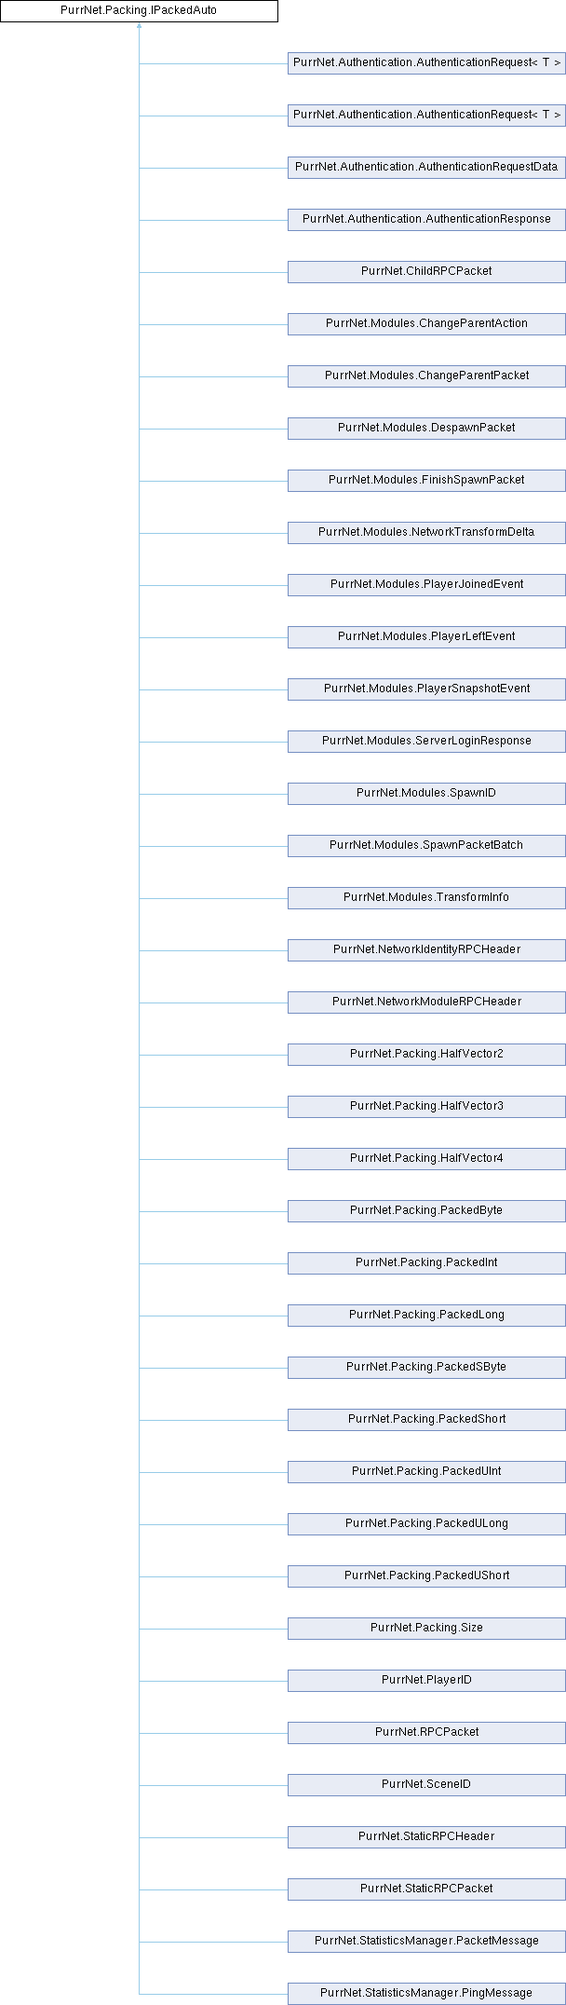
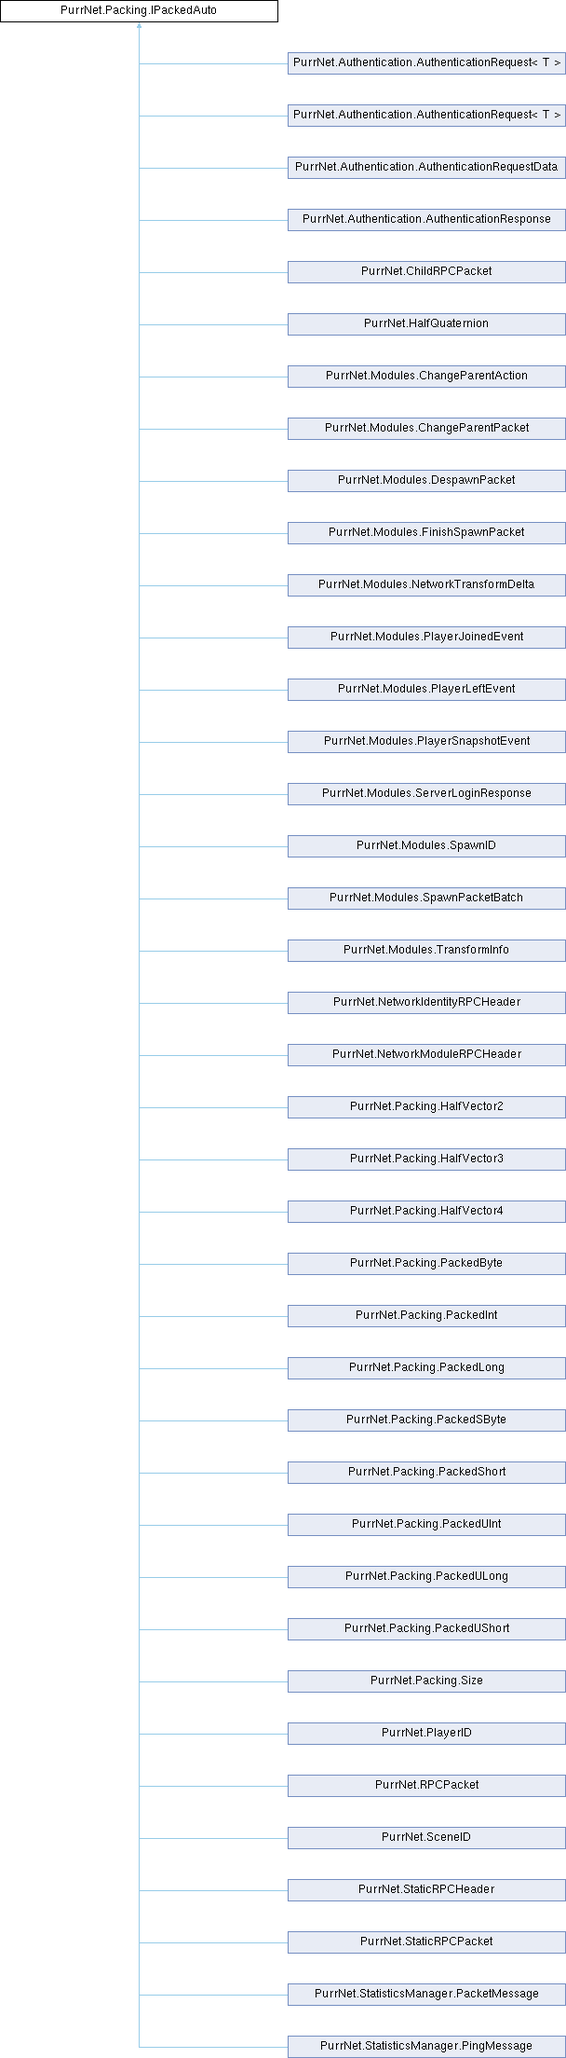
deploy: 9bf5a2cdf919eabc8fd64e0ef0906b92d262b19e

Changed region(s): [[0.5, 0.0311, 1.0, 0.9963]]

diff --git a/dev/hierarchy.html b/dev/hierarchy.html
@@ -280,39 +280,40 @@ $(document).ready(function(){initNavTree('hierarchy.html',''); initResizable(); 
 <tr id="row_68_2_" class="odd" style="display:none;"><td class="entry"><span style="width:32px;display:inline-block;">&#160;</span><span class="icona"><span class="icon">C</span></span><a class="el" href="structPurrNet_1_1Authentication_1_1AuthenticationRequestData.html" target="_self">PurrNet.Authentication.AuthenticationRequestData</a></td><td class="desc"></td></tr>
 <tr id="row_68_3_" class="odd" style="display:none;"><td class="entry"><span style="width:32px;display:inline-block;">&#160;</span><span class="icona"><span class="icon">C</span></span><a class="el" href="structPurrNet_1_1Authentication_1_1AuthenticationResponse.html" target="_self">PurrNet.Authentication.AuthenticationResponse</a></td><td class="desc"></td></tr>
 <tr id="row_68_4_" class="odd" style="display:none;"><td class="entry"><span style="width:32px;display:inline-block;">&#160;</span><span class="icona"><span class="icon">C</span></span><a class="el" href="structPurrNet_1_1ChildRPCPacket.html" target="_self">PurrNet.ChildRPCPacket</a></td><td class="desc"></td></tr>
-<tr id="row_68_5_" class="odd" style="display:none;"><td class="entry"><span style="width:32px;display:inline-block;">&#160;</span><span class="icona"><span class="icon">C</span></span><a class="el" href="structPurrNet_1_1Modules_1_1ChangeParentAction.html" target="_self">PurrNet.Modules.ChangeParentAction</a></td><td class="desc"></td></tr>
-<tr id="row_68_6_" class="odd" style="display:none;"><td class="entry"><span style="width:32px;display:inline-block;">&#160;</span><span class="icona"><span class="icon">C</span></span><a class="el" href="structPurrNet_1_1Modules_1_1ChangeParentPacket.html" target="_self">PurrNet.Modules.ChangeParentPacket</a></td><td class="desc"></td></tr>
-<tr id="row_68_7_" class="odd" style="display:none;"><td class="entry"><span style="width:32px;display:inline-block;">&#160;</span><span class="icona"><span class="icon">C</span></span><a class="el" href="structPurrNet_1_1Modules_1_1DespawnPacket.html" target="_self">PurrNet.Modules.DespawnPacket</a></td><td class="desc"></td></tr>
-<tr id="row_68_8_" class="odd" style="display:none;"><td class="entry"><span style="width:32px;display:inline-block;">&#160;</span><span class="icona"><span class="icon">C</span></span><a class="el" href="structPurrNet_1_1Modules_1_1FinishSpawnPacket.html" target="_self">PurrNet.Modules.FinishSpawnPacket</a></td><td class="desc"></td></tr>
-<tr id="row_68_9_" class="odd" style="display:none;"><td class="entry"><span style="width:32px;display:inline-block;">&#160;</span><span class="icona"><span class="icon">C</span></span><a class="el" href="structPurrNet_1_1Modules_1_1NetworkTransformDelta.html" target="_self">PurrNet.Modules.NetworkTransformDelta</a></td><td class="desc"></td></tr>
-<tr id="row_68_10_" class="odd" style="display:none;"><td class="entry"><span style="width:32px;display:inline-block;">&#160;</span><span class="icona"><span class="icon">C</span></span><a class="el" href="structPurrNet_1_1Modules_1_1PlayerJoinedEvent.html" target="_self">PurrNet.Modules.PlayerJoinedEvent</a></td><td class="desc"></td></tr>
-<tr id="row_68_11_" class="odd" style="display:none;"><td class="entry"><span style="width:32px;display:inline-block;">&#160;</span><span class="icona"><span class="icon">C</span></span><a class="el" href="structPurrNet_1_1Modules_1_1PlayerLeftEvent.html" target="_self">PurrNet.Modules.PlayerLeftEvent</a></td><td class="desc"></td></tr>
-<tr id="row_68_12_" class="odd" style="display:none;"><td class="entry"><span style="width:32px;display:inline-block;">&#160;</span><span class="icona"><span class="icon">C</span></span><a class="el" href="structPurrNet_1_1Modules_1_1PlayerSnapshotEvent.html" target="_self">PurrNet.Modules.PlayerSnapshotEvent</a></td><td class="desc"></td></tr>
-<tr id="row_68_13_" class="odd" style="display:none;"><td class="entry"><span style="width:32px;display:inline-block;">&#160;</span><span class="icona"><span class="icon">C</span></span><a class="el" href="structPurrNet_1_1Modules_1_1ServerLoginResponse.html" target="_self">PurrNet.Modules.ServerLoginResponse</a></td><td class="desc"></td></tr>
-<tr id="row_68_14_" class="odd" style="display:none;"><td class="entry"><span style="width:32px;display:inline-block;">&#160;</span><span class="icona"><span class="icon">C</span></span><a class="el" href="structPurrNet_1_1Modules_1_1SpawnID.html" target="_self">PurrNet.Modules.SpawnID</a></td><td class="desc"></td></tr>
-<tr id="row_68_15_" class="odd" style="display:none;"><td class="entry"><span style="width:32px;display:inline-block;">&#160;</span><span class="icona"><span class="icon">C</span></span><a class="el" href="structPurrNet_1_1Modules_1_1SpawnPacketBatch.html" target="_self">PurrNet.Modules.SpawnPacketBatch</a></td><td class="desc"></td></tr>
-<tr id="row_68_16_" class="odd" style="display:none;"><td class="entry"><span style="width:32px;display:inline-block;">&#160;</span><span class="icona"><span class="icon">C</span></span><a class="el" href="structPurrNet_1_1Modules_1_1TransformInfo.html" target="_self">PurrNet.Modules.TransformInfo</a></td><td class="desc"></td></tr>
-<tr id="row_68_17_" class="odd" style="display:none;"><td class="entry"><span style="width:32px;display:inline-block;">&#160;</span><span class="icona"><span class="icon">C</span></span><a class="el" href="structPurrNet_1_1NetworkIdentityRPCHeader.html" target="_self">PurrNet.NetworkIdentityRPCHeader</a></td><td class="desc"></td></tr>
-<tr id="row_68_18_" class="odd" style="display:none;"><td class="entry"><span style="width:32px;display:inline-block;">&#160;</span><span class="icona"><span class="icon">C</span></span><a class="el" href="structPurrNet_1_1NetworkModuleRPCHeader.html" target="_self">PurrNet.NetworkModuleRPCHeader</a></td><td class="desc"></td></tr>
-<tr id="row_68_19_" class="odd" style="display:none;"><td class="entry"><span style="width:32px;display:inline-block;">&#160;</span><span class="icona"><span class="icon">C</span></span><a class="el" href="structPurrNet_1_1Packing_1_1HalfVector2.html" target="_self">PurrNet.Packing.HalfVector2</a></td><td class="desc"></td></tr>
-<tr id="row_68_20_" class="odd" style="display:none;"><td class="entry"><span style="width:32px;display:inline-block;">&#160;</span><span class="icona"><span class="icon">C</span></span><a class="el" href="structPurrNet_1_1Packing_1_1HalfVector3.html" target="_self">PurrNet.Packing.HalfVector3</a></td><td class="desc"></td></tr>
-<tr id="row_68_21_" class="odd" style="display:none;"><td class="entry"><span style="width:32px;display:inline-block;">&#160;</span><span class="icona"><span class="icon">C</span></span><a class="el" href="structPurrNet_1_1Packing_1_1HalfVector4.html" target="_self">PurrNet.Packing.HalfVector4</a></td><td class="desc"></td></tr>
-<tr id="row_68_22_" class="odd" style="display:none;"><td class="entry"><span style="width:32px;display:inline-block;">&#160;</span><span class="icona"><span class="icon">C</span></span><a class="el" href="structPurrNet_1_1Packing_1_1PackedByte.html" target="_self">PurrNet.Packing.PackedByte</a></td><td class="desc"></td></tr>
-<tr id="row_68_23_" class="odd" style="display:none;"><td class="entry"><span style="width:32px;display:inline-block;">&#160;</span><span class="icona"><span class="icon">C</span></span><a class="el" href="structPurrNet_1_1Packing_1_1PackedInt.html" target="_self">PurrNet.Packing.PackedInt</a></td><td class="desc"></td></tr>
-<tr id="row_68_24_" class="odd" style="display:none;"><td class="entry"><span style="width:32px;display:inline-block;">&#160;</span><span class="icona"><span class="icon">C</span></span><a class="el" href="structPurrNet_1_1Packing_1_1PackedLong.html" target="_self">PurrNet.Packing.PackedLong</a></td><td class="desc"></td></tr>
-<tr id="row_68_25_" class="odd" style="display:none;"><td class="entry"><span style="width:32px;display:inline-block;">&#160;</span><span class="icona"><span class="icon">C</span></span><a class="el" href="structPurrNet_1_1Packing_1_1PackedSByte.html" target="_self">PurrNet.Packing.PackedSByte</a></td><td class="desc"></td></tr>
-<tr id="row_68_26_" class="odd" style="display:none;"><td class="entry"><span style="width:32px;display:inline-block;">&#160;</span><span class="icona"><span class="icon">C</span></span><a class="el" href="structPurrNet_1_1Packing_1_1PackedShort.html" target="_self">PurrNet.Packing.PackedShort</a></td><td class="desc"></td></tr>
-<tr id="row_68_27_" class="odd" style="display:none;"><td class="entry"><span style="width:32px;display:inline-block;">&#160;</span><span class="icona"><span class="icon">C</span></span><a class="el" href="structPurrNet_1_1Packing_1_1PackedUInt.html" target="_self">PurrNet.Packing.PackedUInt</a></td><td class="desc"></td></tr>
-<tr id="row_68_28_" class="odd" style="display:none;"><td class="entry"><span style="width:32px;display:inline-block;">&#160;</span><span class="icona"><span class="icon">C</span></span><a class="el" href="structPurrNet_1_1Packing_1_1PackedULong.html" target="_self">PurrNet.Packing.PackedULong</a></td><td class="desc"></td></tr>
-<tr id="row_68_29_" class="odd" style="display:none;"><td class="entry"><span style="width:32px;display:inline-block;">&#160;</span><span class="icona"><span class="icon">C</span></span><a class="el" href="structPurrNet_1_1Packing_1_1PackedUShort.html" target="_self">PurrNet.Packing.PackedUShort</a></td><td class="desc"></td></tr>
-<tr id="row_68_30_" class="odd" style="display:none;"><td class="entry"><span style="width:32px;display:inline-block;">&#160;</span><span class="icona"><span class="icon">C</span></span><a class="el" href="structPurrNet_1_1Packing_1_1Size.html" target="_self">PurrNet.Packing.Size</a></td><td class="desc"></td></tr>
-<tr id="row_68_31_" class="odd" style="display:none;"><td class="entry"><span style="width:32px;display:inline-block;">&#160;</span><span class="icona"><span class="icon">C</span></span><a class="el" href="structPurrNet_1_1PlayerID.html" target="_self">PurrNet.PlayerID</a></td><td class="desc"></td></tr>
-<tr id="row_68_32_" class="odd" style="display:none;"><td class="entry"><span style="width:32px;display:inline-block;">&#160;</span><span class="icona"><span class="icon">C</span></span><a class="el" href="structPurrNet_1_1RPCPacket.html" target="_self">PurrNet.RPCPacket</a></td><td class="desc"></td></tr>
-<tr id="row_68_33_" class="odd" style="display:none;"><td class="entry"><span style="width:32px;display:inline-block;">&#160;</span><span class="icona"><span class="icon">C</span></span><a class="el" href="structPurrNet_1_1SceneID.html" target="_self">PurrNet.SceneID</a></td><td class="desc"></td></tr>
-<tr id="row_68_34_" class="odd" style="display:none;"><td class="entry"><span style="width:32px;display:inline-block;">&#160;</span><span class="icona"><span class="icon">C</span></span><a class="el" href="structPurrNet_1_1StaticRPCHeader.html" target="_self">PurrNet.StaticRPCHeader</a></td><td class="desc"></td></tr>
-<tr id="row_68_35_" class="odd" style="display:none;"><td class="entry"><span style="width:32px;display:inline-block;">&#160;</span><span class="icona"><span class="icon">C</span></span><a class="el" href="structPurrNet_1_1StaticRPCPacket.html" target="_self">PurrNet.StaticRPCPacket</a></td><td class="desc"></td></tr>
-<tr id="row_68_36_" class="odd" style="display:none;"><td class="entry"><span style="width:32px;display:inline-block;">&#160;</span><span class="icona"><span class="icon">C</span></span><a class="el" href="structPurrNet_1_1StatisticsManager_1_1PacketMessage.html" target="_self">PurrNet.StatisticsManager.PacketMessage</a></td><td class="desc"></td></tr>
-<tr id="row_68_37_" class="odd" style="display:none;"><td class="entry"><span style="width:32px;display:inline-block;">&#160;</span><span class="icona"><span class="icon">C</span></span><a class="el" href="structPurrNet_1_1StatisticsManager_1_1PingMessage.html" target="_self">PurrNet.StatisticsManager.PingMessage</a></td><td class="desc"></td></tr>
+<tr id="row_68_5_" class="odd" style="display:none;"><td class="entry"><span style="width:32px;display:inline-block;">&#160;</span><span class="icona"><span class="icon">C</span></span><a class="el" href="structPurrNet_1_1HalfQuaternion.html" target="_self">PurrNet.HalfQuaternion</a></td><td class="desc"></td></tr>
+<tr id="row_68_6_" class="odd" style="display:none;"><td class="entry"><span style="width:32px;display:inline-block;">&#160;</span><span class="icona"><span class="icon">C</span></span><a class="el" href="structPurrNet_1_1Modules_1_1ChangeParentAction.html" target="_self">PurrNet.Modules.ChangeParentAction</a></td><td class="desc"></td></tr>
+<tr id="row_68_7_" class="odd" style="display:none;"><td class="entry"><span style="width:32px;display:inline-block;">&#160;</span><span class="icona"><span class="icon">C</span></span><a class="el" href="structPurrNet_1_1Modules_1_1ChangeParentPacket.html" target="_self">PurrNet.Modules.ChangeParentPacket</a></td><td class="desc"></td></tr>
+<tr id="row_68_8_" class="odd" style="display:none;"><td class="entry"><span style="width:32px;display:inline-block;">&#160;</span><span class="icona"><span class="icon">C</span></span><a class="el" href="structPurrNet_1_1Modules_1_1DespawnPacket.html" target="_self">PurrNet.Modules.DespawnPacket</a></td><td class="desc"></td></tr>
+<tr id="row_68_9_" class="odd" style="display:none;"><td class="entry"><span style="width:32px;display:inline-block;">&#160;</span><span class="icona"><span class="icon">C</span></span><a class="el" href="structPurrNet_1_1Modules_1_1FinishSpawnPacket.html" target="_self">PurrNet.Modules.FinishSpawnPacket</a></td><td class="desc"></td></tr>
+<tr id="row_68_10_" class="odd" style="display:none;"><td class="entry"><span style="width:32px;display:inline-block;">&#160;</span><span class="icona"><span class="icon">C</span></span><a class="el" href="structPurrNet_1_1Modules_1_1NetworkTransformDelta.html" target="_self">PurrNet.Modules.NetworkTransformDelta</a></td><td class="desc"></td></tr>
+<tr id="row_68_11_" class="odd" style="display:none;"><td class="entry"><span style="width:32px;display:inline-block;">&#160;</span><span class="icona"><span class="icon">C</span></span><a class="el" href="structPurrNet_1_1Modules_1_1PlayerJoinedEvent.html" target="_self">PurrNet.Modules.PlayerJoinedEvent</a></td><td class="desc"></td></tr>
+<tr id="row_68_12_" class="odd" style="display:none;"><td class="entry"><span style="width:32px;display:inline-block;">&#160;</span><span class="icona"><span class="icon">C</span></span><a class="el" href="structPurrNet_1_1Modules_1_1PlayerLeftEvent.html" target="_self">PurrNet.Modules.PlayerLeftEvent</a></td><td class="desc"></td></tr>
+<tr id="row_68_13_" class="odd" style="display:none;"><td class="entry"><span style="width:32px;display:inline-block;">&#160;</span><span class="icona"><span class="icon">C</span></span><a class="el" href="structPurrNet_1_1Modules_1_1PlayerSnapshotEvent.html" target="_self">PurrNet.Modules.PlayerSnapshotEvent</a></td><td class="desc"></td></tr>
+<tr id="row_68_14_" class="odd" style="display:none;"><td class="entry"><span style="width:32px;display:inline-block;">&#160;</span><span class="icona"><span class="icon">C</span></span><a class="el" href="structPurrNet_1_1Modules_1_1ServerLoginResponse.html" target="_self">PurrNet.Modules.ServerLoginResponse</a></td><td class="desc"></td></tr>
+<tr id="row_68_15_" class="odd" style="display:none;"><td class="entry"><span style="width:32px;display:inline-block;">&#160;</span><span class="icona"><span class="icon">C</span></span><a class="el" href="structPurrNet_1_1Modules_1_1SpawnID.html" target="_self">PurrNet.Modules.SpawnID</a></td><td class="desc"></td></tr>
+<tr id="row_68_16_" class="odd" style="display:none;"><td class="entry"><span style="width:32px;display:inline-block;">&#160;</span><span class="icona"><span class="icon">C</span></span><a class="el" href="structPurrNet_1_1Modules_1_1SpawnPacketBatch.html" target="_self">PurrNet.Modules.SpawnPacketBatch</a></td><td class="desc"></td></tr>
+<tr id="row_68_17_" class="odd" style="display:none;"><td class="entry"><span style="width:32px;display:inline-block;">&#160;</span><span class="icona"><span class="icon">C</span></span><a class="el" href="structPurrNet_1_1Modules_1_1TransformInfo.html" target="_self">PurrNet.Modules.TransformInfo</a></td><td class="desc"></td></tr>
+<tr id="row_68_18_" class="odd" style="display:none;"><td class="entry"><span style="width:32px;display:inline-block;">&#160;</span><span class="icona"><span class="icon">C</span></span><a class="el" href="structPurrNet_1_1NetworkIdentityRPCHeader.html" target="_self">PurrNet.NetworkIdentityRPCHeader</a></td><td class="desc"></td></tr>
+<tr id="row_68_19_" class="odd" style="display:none;"><td class="entry"><span style="width:32px;display:inline-block;">&#160;</span><span class="icona"><span class="icon">C</span></span><a class="el" href="structPurrNet_1_1NetworkModuleRPCHeader.html" target="_self">PurrNet.NetworkModuleRPCHeader</a></td><td class="desc"></td></tr>
+<tr id="row_68_20_" class="odd" style="display:none;"><td class="entry"><span style="width:32px;display:inline-block;">&#160;</span><span class="icona"><span class="icon">C</span></span><a class="el" href="structPurrNet_1_1Packing_1_1HalfVector2.html" target="_self">PurrNet.Packing.HalfVector2</a></td><td class="desc"></td></tr>
+<tr id="row_68_21_" class="odd" style="display:none;"><td class="entry"><span style="width:32px;display:inline-block;">&#160;</span><span class="icona"><span class="icon">C</span></span><a class="el" href="structPurrNet_1_1Packing_1_1HalfVector3.html" target="_self">PurrNet.Packing.HalfVector3</a></td><td class="desc"></td></tr>
+<tr id="row_68_22_" class="odd" style="display:none;"><td class="entry"><span style="width:32px;display:inline-block;">&#160;</span><span class="icona"><span class="icon">C</span></span><a class="el" href="structPurrNet_1_1Packing_1_1HalfVector4.html" target="_self">PurrNet.Packing.HalfVector4</a></td><td class="desc"></td></tr>
+<tr id="row_68_23_" class="odd" style="display:none;"><td class="entry"><span style="width:32px;display:inline-block;">&#160;</span><span class="icona"><span class="icon">C</span></span><a class="el" href="structPurrNet_1_1Packing_1_1PackedByte.html" target="_self">PurrNet.Packing.PackedByte</a></td><td class="desc"></td></tr>
+<tr id="row_68_24_" class="odd" style="display:none;"><td class="entry"><span style="width:32px;display:inline-block;">&#160;</span><span class="icona"><span class="icon">C</span></span><a class="el" href="structPurrNet_1_1Packing_1_1PackedInt.html" target="_self">PurrNet.Packing.PackedInt</a></td><td class="desc"></td></tr>
+<tr id="row_68_25_" class="odd" style="display:none;"><td class="entry"><span style="width:32px;display:inline-block;">&#160;</span><span class="icona"><span class="icon">C</span></span><a class="el" href="structPurrNet_1_1Packing_1_1PackedLong.html" target="_self">PurrNet.Packing.PackedLong</a></td><td class="desc"></td></tr>
+<tr id="row_68_26_" class="odd" style="display:none;"><td class="entry"><span style="width:32px;display:inline-block;">&#160;</span><span class="icona"><span class="icon">C</span></span><a class="el" href="structPurrNet_1_1Packing_1_1PackedSByte.html" target="_self">PurrNet.Packing.PackedSByte</a></td><td class="desc"></td></tr>
+<tr id="row_68_27_" class="odd" style="display:none;"><td class="entry"><span style="width:32px;display:inline-block;">&#160;</span><span class="icona"><span class="icon">C</span></span><a class="el" href="structPurrNet_1_1Packing_1_1PackedShort.html" target="_self">PurrNet.Packing.PackedShort</a></td><td class="desc"></td></tr>
+<tr id="row_68_28_" class="odd" style="display:none;"><td class="entry"><span style="width:32px;display:inline-block;">&#160;</span><span class="icona"><span class="icon">C</span></span><a class="el" href="structPurrNet_1_1Packing_1_1PackedUInt.html" target="_self">PurrNet.Packing.PackedUInt</a></td><td class="desc"></td></tr>
+<tr id="row_68_29_" class="odd" style="display:none;"><td class="entry"><span style="width:32px;display:inline-block;">&#160;</span><span class="icona"><span class="icon">C</span></span><a class="el" href="structPurrNet_1_1Packing_1_1PackedULong.html" target="_self">PurrNet.Packing.PackedULong</a></td><td class="desc"></td></tr>
+<tr id="row_68_30_" class="odd" style="display:none;"><td class="entry"><span style="width:32px;display:inline-block;">&#160;</span><span class="icona"><span class="icon">C</span></span><a class="el" href="structPurrNet_1_1Packing_1_1PackedUShort.html" target="_self">PurrNet.Packing.PackedUShort</a></td><td class="desc"></td></tr>
+<tr id="row_68_31_" class="odd" style="display:none;"><td class="entry"><span style="width:32px;display:inline-block;">&#160;</span><span class="icona"><span class="icon">C</span></span><a class="el" href="structPurrNet_1_1Packing_1_1Size.html" target="_self">PurrNet.Packing.Size</a></td><td class="desc"></td></tr>
+<tr id="row_68_32_" class="odd" style="display:none;"><td class="entry"><span style="width:32px;display:inline-block;">&#160;</span><span class="icona"><span class="icon">C</span></span><a class="el" href="structPurrNet_1_1PlayerID.html" target="_self">PurrNet.PlayerID</a></td><td class="desc"></td></tr>
+<tr id="row_68_33_" class="odd" style="display:none;"><td class="entry"><span style="width:32px;display:inline-block;">&#160;</span><span class="icona"><span class="icon">C</span></span><a class="el" href="structPurrNet_1_1RPCPacket.html" target="_self">PurrNet.RPCPacket</a></td><td class="desc"></td></tr>
+<tr id="row_68_34_" class="odd" style="display:none;"><td class="entry"><span style="width:32px;display:inline-block;">&#160;</span><span class="icona"><span class="icon">C</span></span><a class="el" href="structPurrNet_1_1SceneID.html" target="_self">PurrNet.SceneID</a></td><td class="desc"></td></tr>
+<tr id="row_68_35_" class="odd" style="display:none;"><td class="entry"><span style="width:32px;display:inline-block;">&#160;</span><span class="icona"><span class="icon">C</span></span><a class="el" href="structPurrNet_1_1StaticRPCHeader.html" target="_self">PurrNet.StaticRPCHeader</a></td><td class="desc"></td></tr>
+<tr id="row_68_36_" class="odd" style="display:none;"><td class="entry"><span style="width:32px;display:inline-block;">&#160;</span><span class="icona"><span class="icon">C</span></span><a class="el" href="structPurrNet_1_1StaticRPCPacket.html" target="_self">PurrNet.StaticRPCPacket</a></td><td class="desc"></td></tr>
+<tr id="row_68_37_" class="odd" style="display:none;"><td class="entry"><span style="width:32px;display:inline-block;">&#160;</span><span class="icona"><span class="icon">C</span></span><a class="el" href="structPurrNet_1_1StatisticsManager_1_1PacketMessage.html" target="_self">PurrNet.StatisticsManager.PacketMessage</a></td><td class="desc"></td></tr>
+<tr id="row_68_38_" class="odd" style="display:none;"><td class="entry"><span style="width:32px;display:inline-block;">&#160;</span><span class="icona"><span class="icon">C</span></span><a class="el" href="structPurrNet_1_1StatisticsManager_1_1PingMessage.html" target="_self">PurrNet.StatisticsManager.PingMessage</a></td><td class="desc"></td></tr>
 <tr id="row_69_" class="odd"><td class="entry"><span style="width:16px;display:inline-block;">&#160;</span><span class="icona"><span class="icon">C</span></span><a class="el" href="interfacePurrNet_1_1Packing_1_1IPackedSimple.html" target="_self">PurrNet.Packing.IPackedSimple</a></td><td class="desc"></td></tr>
 <tr id="row_70_" class="even"><td class="entry"><span style="width:16px;display:inline-block;">&#160;</span><span class="icona"><span class="icon">C</span></span><a class="el" href="interfacePurrNet_1_1IPlayerAuthenticator.html" target="_self">PurrNet.IPlayerAuthenticator</a></td><td class="desc"></td></tr>
 <tr id="row_71_" class="odd"><td class="entry"><span style="width:0px;display:inline-block;">&#160;</span><span id="arr_71_" class="arrow" onclick="toggleFolder('71_')">&#9658;</span><span class="icona"><span class="icon">C</span></span><a class="el" href="interfacePurrNet_1_1IPlayerBroadcaster.html" target="_self">PurrNet.IPlayerBroadcaster</a></td><td class="desc"></td></tr>

diff --git a/dev/interfacePurrNet_1_1Packing_1_1IPackedAuto.html b/dev/interfacePurrNet_1_1Packing_1_1IPackedAuto.html
@@ -104,39 +104,40 @@ Inheritance diagram for PurrNet.Packing.IPackedAuto:</div>
 <area href="structPurrNet_1_1Authentication_1_1AuthenticationRequestData.html" alt="PurrNet.Authentication.AuthenticationRequestData" shape="rect" coords="309,168,608,192"/>
 <area href="structPurrNet_1_1Authentication_1_1AuthenticationResponse.html" alt="PurrNet.Authentication.AuthenticationResponse" shape="rect" coords="309,224,608,248"/>
 <area href="structPurrNet_1_1ChildRPCPacket.html" alt="PurrNet.ChildRPCPacket" shape="rect" coords="309,280,608,304"/>
-<area href="structPurrNet_1_1Modules_1_1ChangeParentAction.html" alt="PurrNet.Modules.ChangeParentAction" shape="rect" coords="309,336,608,360"/>
-<area href="structPurrNet_1_1Modules_1_1ChangeParentPacket.html" alt="PurrNet.Modules.ChangeParentPacket" shape="rect" coords="309,392,608,416"/>
-<area href="structPurrNet_1_1Modules_1_1DespawnPacket.html" alt="PurrNet.Modules.DespawnPacket" shape="rect" coords="309,448,608,472"/>
-<area href="structPurrNet_1_1Modules_1_1FinishSpawnPacket.html" alt="PurrNet.Modules.FinishSpawnPacket" shape="rect" coords="309,504,608,528"/>
-<area href="structPurrNet_1_1Modules_1_1NetworkTransformDelta.html" alt="PurrNet.Modules.NetworkTransformDelta" shape="rect" coords="309,560,608,584"/>
-<area href="structPurrNet_1_1Modules_1_1PlayerJoinedEvent.html" alt="PurrNet.Modules.PlayerJoinedEvent" shape="rect" coords="309,616,608,640"/>
-<area href="structPurrNet_1_1Modules_1_1PlayerLeftEvent.html" alt="PurrNet.Modules.PlayerLeftEvent" shape="rect" coords="309,672,608,696"/>
-<area href="structPurrNet_1_1Modules_1_1PlayerSnapshotEvent.html" alt="PurrNet.Modules.PlayerSnapshotEvent" shape="rect" coords="309,728,608,752"/>
-<area href="structPurrNet_1_1Modules_1_1ServerLoginResponse.html" alt="PurrNet.Modules.ServerLoginResponse" shape="rect" coords="309,784,608,808"/>
-<area href="structPurrNet_1_1Modules_1_1SpawnID.html" alt="PurrNet.Modules.SpawnID" shape="rect" coords="309,840,608,864"/>
-<area href="structPurrNet_1_1Modules_1_1SpawnPacketBatch.html" alt="PurrNet.Modules.SpawnPacketBatch" shape="rect" coords="309,896,608,920"/>
-<area href="structPurrNet_1_1Modules_1_1TransformInfo.html" alt="PurrNet.Modules.TransformInfo" shape="rect" coords="309,952,608,976"/>
-<area href="structPurrNet_1_1NetworkIdentityRPCHeader.html" alt="PurrNet.NetworkIdentityRPCHeader" shape="rect" coords="309,1008,608,1032"/>
-<area href="structPurrNet_1_1NetworkModuleRPCHeader.html" alt="PurrNet.NetworkModuleRPCHeader" shape="rect" coords="309,1064,608,1088"/>
-<area href="structPurrNet_1_1Packing_1_1HalfVector2.html" alt="PurrNet.Packing.HalfVector2" shape="rect" coords="309,1120,608,1144"/>
-<area href="structPurrNet_1_1Packing_1_1HalfVector3.html" alt="PurrNet.Packing.HalfVector3" shape="rect" coords="309,1176,608,1200"/>
-<area href="structPurrNet_1_1Packing_1_1HalfVector4.html" alt="PurrNet.Packing.HalfVector4" shape="rect" coords="309,1232,608,1256"/>
-<area href="structPurrNet_1_1Packing_1_1PackedByte.html" alt="PurrNet.Packing.PackedByte" shape="rect" coords="309,1288,608,1312"/>
-<area href="structPurrNet_1_1Packing_1_1PackedInt.html" alt="PurrNet.Packing.PackedInt" shape="rect" coords="309,1344,608,1368"/>
-<area href="structPurrNet_1_1Packing_1_1PackedLong.html" alt="PurrNet.Packing.PackedLong" shape="rect" coords="309,1400,608,1424"/>
-<area href="structPurrNet_1_1Packing_1_1PackedSByte.html" alt="PurrNet.Packing.PackedSByte" shape="rect" coords="309,1456,608,1480"/>
-<area href="structPurrNet_1_1Packing_1_1PackedShort.html" alt="PurrNet.Packing.PackedShort" shape="rect" coords="309,1512,608,1536"/>
-<area href="structPurrNet_1_1Packing_1_1PackedUInt.html" alt="PurrNet.Packing.PackedUInt" shape="rect" coords="309,1568,608,1592"/>
-<area href="structPurrNet_1_1Packing_1_1PackedULong.html" alt="PurrNet.Packing.PackedULong" shape="rect" coords="309,1624,608,1648"/>
-<area href="structPurrNet_1_1Packing_1_1PackedUShort.html" alt="PurrNet.Packing.PackedUShort" shape="rect" coords="309,1680,608,1704"/>
-<area href="structPurrNet_1_1Packing_1_1Size.html" alt="PurrNet.Packing.Size" shape="rect" coords="309,1736,608,1760"/>
-<area href="structPurrNet_1_1PlayerID.html" alt="PurrNet.PlayerID" shape="rect" coords="309,1792,608,1816"/>
-<area href="structPurrNet_1_1RPCPacket.html" alt="PurrNet.RPCPacket" shape="rect" coords="309,1848,608,1872"/>
-<area href="structPurrNet_1_1SceneID.html" alt="PurrNet.SceneID" shape="rect" coords="309,1904,608,1928"/>
-<area href="structPurrNet_1_1StaticRPCHeader.html" alt="PurrNet.StaticRPCHeader" shape="rect" coords="309,1960,608,1984"/>
-<area href="structPurrNet_1_1StaticRPCPacket.html" alt="PurrNet.StaticRPCPacket" shape="rect" coords="309,2016,608,2040"/>
-<area href="structPurrNet_1_1StatisticsManager_1_1PacketMessage.html" alt="PurrNet.StatisticsManager.PacketMessage" shape="rect" coords="309,2072,608,2096"/>
-<area href="structPurrNet_1_1StatisticsManager_1_1PingMessage.html" alt="PurrNet.StatisticsManager.PingMessage" shape="rect" coords="309,2128,608,2152"/>
+<area href="structPurrNet_1_1HalfQuaternion.html" alt="PurrNet.HalfQuaternion" shape="rect" coords="309,336,608,360"/>
+<area href="structPurrNet_1_1Modules_1_1ChangeParentAction.html" alt="PurrNet.Modules.ChangeParentAction" shape="rect" coords="309,392,608,416"/>
+<area href="structPurrNet_1_1Modules_1_1ChangeParentPacket.html" alt="PurrNet.Modules.ChangeParentPacket" shape="rect" coords="309,448,608,472"/>
+<area href="structPurrNet_1_1Modules_1_1DespawnPacket.html" alt="PurrNet.Modules.DespawnPacket" shape="rect" coords="309,504,608,528"/>
+<area href="structPurrNet_1_1Modules_1_1FinishSpawnPacket.html" alt="PurrNet.Modules.FinishSpawnPacket" shape="rect" coords="309,560,608,584"/>
+<area href="structPurrNet_1_1Modules_1_1NetworkTransformDelta.html" alt="PurrNet.Modules.NetworkTransformDelta" shape="rect" coords="309,616,608,640"/>
+<area href="structPurrNet_1_1Modules_1_1PlayerJoinedEvent.html" alt="PurrNet.Modules.PlayerJoinedEvent" shape="rect" coords="309,672,608,696"/>
+<area href="structPurrNet_1_1Modules_1_1PlayerLeftEvent.html" alt="PurrNet.Modules.PlayerLeftEvent" shape="rect" coords="309,728,608,752"/>
+<area href="structPurrNet_1_1Modules_1_1PlayerSnapshotEvent.html" alt="PurrNet.Modules.PlayerSnapshotEvent" shape="rect" coords="309,784,608,808"/>
+<area href="structPurrNet_1_1Modules_1_1ServerLoginResponse.html" alt="PurrNet.Modules.ServerLoginResponse" shape="rect" coords="309,840,608,864"/>
+<area href="structPurrNet_1_1Modules_1_1SpawnID.html" alt="PurrNet.Modules.SpawnID" shape="rect" coords="309,896,608,920"/>
+<area href="structPurrNet_1_1Modules_1_1SpawnPacketBatch.html" alt="PurrNet.Modules.SpawnPacketBatch" shape="rect" coords="309,952,608,976"/>
+<area href="structPurrNet_1_1Modules_1_1TransformInfo.html" alt="PurrNet.Modules.TransformInfo" shape="rect" coords="309,1008,608,1032"/>
+<area href="structPurrNet_1_1NetworkIdentityRPCHeader.html" alt="PurrNet.NetworkIdentityRPCHeader" shape="rect" coords="309,1064,608,1088"/>
+<area href="structPurrNet_1_1NetworkModuleRPCHeader.html" alt="PurrNet.NetworkModuleRPCHeader" shape="rect" coords="309,1120,608,1144"/>
+<area href="structPurrNet_1_1Packing_1_1HalfVector2.html" alt="PurrNet.Packing.HalfVector2" shape="rect" coords="309,1176,608,1200"/>
+<area href="structPurrNet_1_1Packing_1_1HalfVector3.html" alt="PurrNet.Packing.HalfVector3" shape="rect" coords="309,1232,608,1256"/>
+<area href="structPurrNet_1_1Packing_1_1HalfVector4.html" alt="PurrNet.Packing.HalfVector4" shape="rect" coords="309,1288,608,1312"/>
+<area href="structPurrNet_1_1Packing_1_1PackedByte.html" alt="PurrNet.Packing.PackedByte" shape="rect" coords="309,1344,608,1368"/>
+<area href="structPurrNet_1_1Packing_1_1PackedInt.html" alt="PurrNet.Packing.PackedInt" shape="rect" coords="309,1400,608,1424"/>
+<area href="structPurrNet_1_1Packing_1_1PackedLong.html" alt="PurrNet.Packing.PackedLong" shape="rect" coords="309,1456,608,1480"/>
+<area href="structPurrNet_1_1Packing_1_1PackedSByte.html" alt="PurrNet.Packing.PackedSByte" shape="rect" coords="309,1512,608,1536"/>
+<area href="structPurrNet_1_1Packing_1_1PackedShort.html" alt="PurrNet.Packing.PackedShort" shape="rect" coords="309,1568,608,1592"/>
+<area href="structPurrNet_1_1Packing_1_1PackedUInt.html" alt="PurrNet.Packing.PackedUInt" shape="rect" coords="309,1624,608,1648"/>
+<area href="structPurrNet_1_1Packing_1_1PackedULong.html" alt="PurrNet.Packing.PackedULong" shape="rect" coords="309,1680,608,1704"/>
+<area href="structPurrNet_1_1Packing_1_1PackedUShort.html" alt="PurrNet.Packing.PackedUShort" shape="rect" coords="309,1736,608,1760"/>
+<area href="structPurrNet_1_1Packing_1_1Size.html" alt="PurrNet.Packing.Size" shape="rect" coords="309,1792,608,1816"/>
+<area href="structPurrNet_1_1PlayerID.html" alt="PurrNet.PlayerID" shape="rect" coords="309,1848,608,1872"/>
+<area href="structPurrNet_1_1RPCPacket.html" alt="PurrNet.RPCPacket" shape="rect" coords="309,1904,608,1928"/>
+<area href="structPurrNet_1_1SceneID.html" alt="PurrNet.SceneID" shape="rect" coords="309,1960,608,1984"/>
+<area href="structPurrNet_1_1StaticRPCHeader.html" alt="PurrNet.StaticRPCHeader" shape="rect" coords="309,2016,608,2040"/>
+<area href="structPurrNet_1_1StaticRPCPacket.html" alt="PurrNet.StaticRPCPacket" shape="rect" coords="309,2072,608,2096"/>
+<area href="structPurrNet_1_1StatisticsManager_1_1PacketMessage.html" alt="PurrNet.StatisticsManager.PacketMessage" shape="rect" coords="309,2128,608,2152"/>
+<area href="structPurrNet_1_1StatisticsManager_1_1PingMessage.html" alt="PurrNet.StatisticsManager.PingMessage" shape="rect" coords="309,2184,608,2208"/>
   </map>
 </div></div>
 <hr/>The documentation for this interface was generated from the following file:<ul>

diff --git a/dev/hierarchy.js b/dev/hierarchy.js
@@ -219,6 +219,7 @@ var hierarchy =
       [ "PurrNet.Authentication.AuthenticationRequestData", "structPurrNet_1_1Authentication_1_1AuthenticationRequestData.html", null ],
       [ "PurrNet.Authentication.AuthenticationResponse", "structPurrNet_1_1Authentication_1_1AuthenticationResponse.html", null ],
       [ "PurrNet.ChildRPCPacket", "structPurrNet_1_1ChildRPCPacket.html", null ],
+      [ "PurrNet.HalfQuaternion", "structPurrNet_1_1HalfQuaternion.html", null ],
       [ "PurrNet.Modules.ChangeParentAction", "structPurrNet_1_1Modules_1_1ChangeParentAction.html", null ],
       [ "PurrNet.Modules.ChangeParentPacket", "structPurrNet_1_1Modules_1_1ChangeParentPacket.html", null ],
       [ "PurrNet.Modules.DespawnPacket", "structPurrNet_1_1Modules_1_1DespawnPacket.html", null ],

diff --git a/dev/structPurrNet_1_1HalfQuaternion.html b/dev/structPurrNet_1_1HalfQuaternion.html
@@ -102,8 +102,11 @@ $(document).ready(function(){initNavTree('structPurrNet_1_1HalfQuaternion.html',
 Inheritance diagram for PurrNet.HalfQuaternion:</div>
 <div class="dyncontent">
  <div class="center">
-  <img src="structPurrNet_1_1HalfQuaternion.png" alt=""/>
- </div></div>
+  <img src="structPurrNet_1_1HalfQuaternion.png" usemap="#PurrNet.HalfQuaternion_map" alt=""/>
+  <map id="PurrNet.HalfQuaternion_map" name="PurrNet.HalfQuaternion_map">
+<area href="interfacePurrNet_1_1Packing_1_1IPackedAuto.html" alt="PurrNet.Packing.IPackedAuto" shape="rect" coords="190,0,370,24"/>
+  </map>
+</div></div>
 <table class="memberdecls">
 <tr class="heading"><td colspan="2"><h2 class="groupheader"><a id="pub-methods" name="pub-methods"></a>
 Public Member Functions</h2></td></tr>
